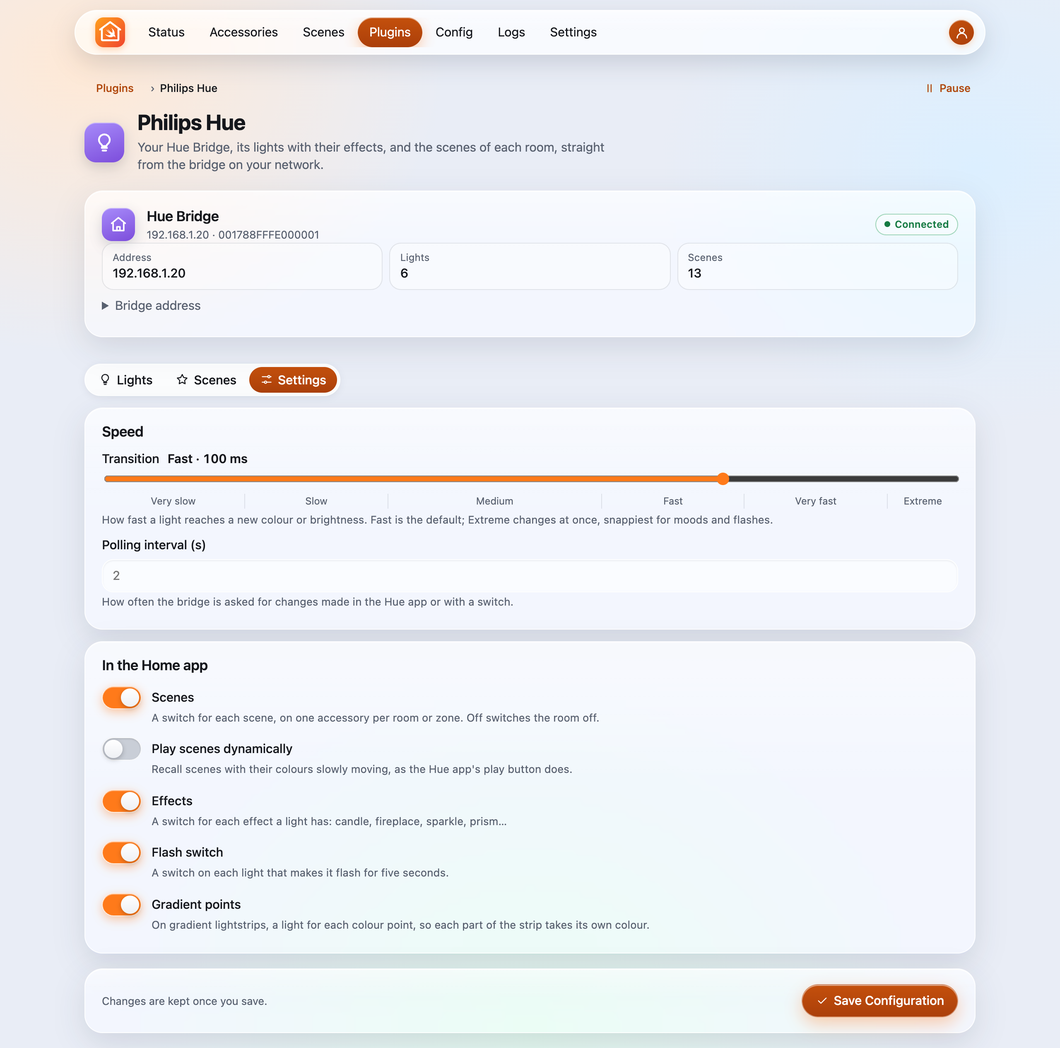
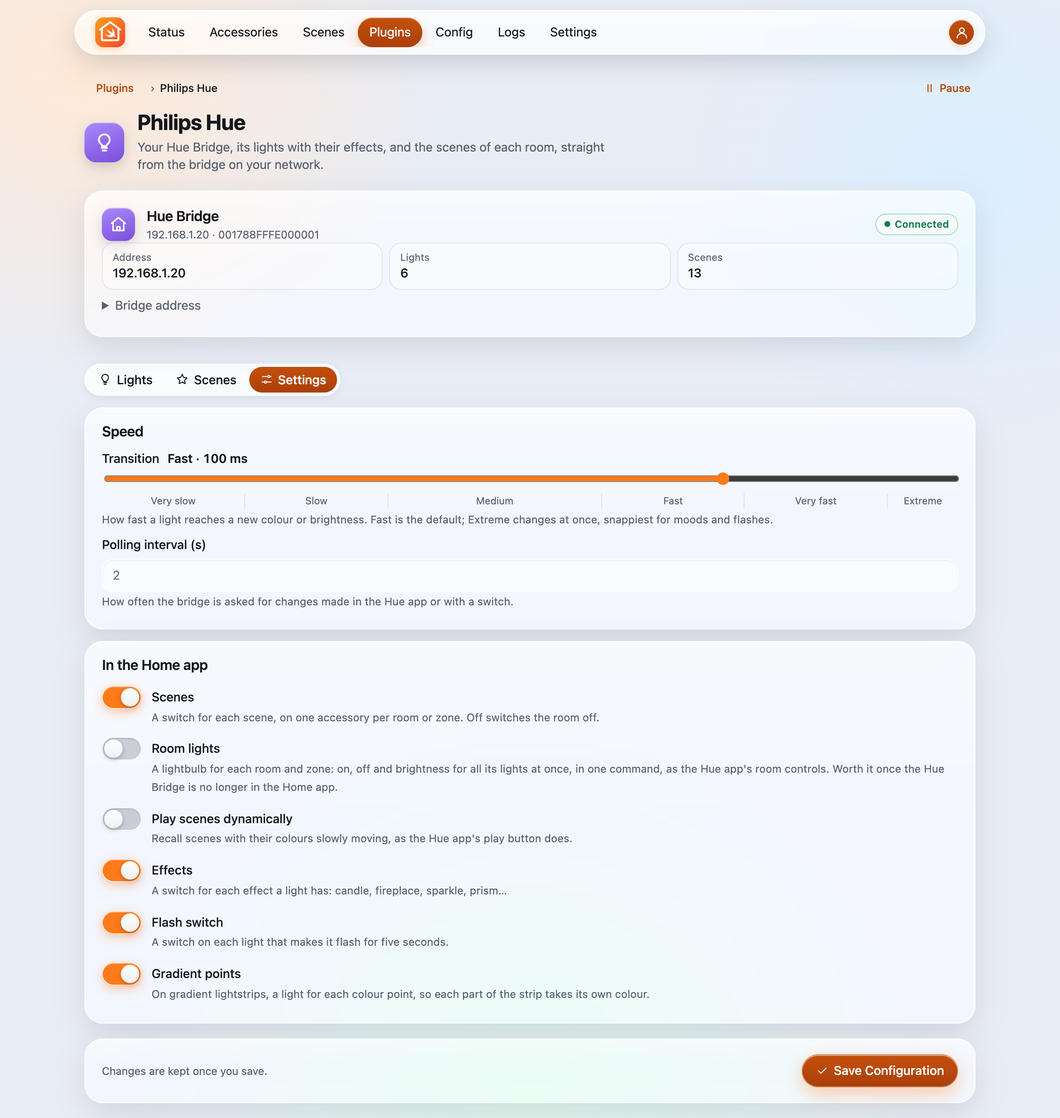
Philips Hue: room lights
With roomLights (off by default), each room and zone gets a lightbulb at
the head of its accessory, driving its grouped_light as the Hue app's room
controls do: on, off and brightness reach all its lights in one command,
with the transition, where the Home app's room controls send one per light.
It shows the on and brightness the bridge reports for the room, left alone
just after a command; colour stays with the scenes, since the bridge does
not report a room's. A zone without scenes gets an accessory for it alone;
the accessory keeps its id, so rooms and automations stay.

The page's settings have the switch, in four languages. The README says how
room lights work, and what happens with a bridge already in the Home app
(the lights show twice: leave them out, or move to Homeswift's).

diff --git a/Plugins/PhilipsHue/Sources/PhilipsHuePlugin.swift b/Plugins/PhilipsHue/Sources/PhilipsHuePlugin.swift
@@ -25,6 +25,8 @@ public actor PhilipsHuePlugin: HomeswiftPlugin {
         /// Seconds between polls; 1 at least, 2 by default.
         public var pollingInterval: Int?
         public var scenes: Bool?
+        /// A lightbulb per room and zone, its lights' on and brightness as one command; off by default.
+        public var roomLights: Bool?
         public var excludeScenes: [String]?
         public var dynamicScenes: Bool?
         public var effects: Bool?
@@ -102,9 +104,12 @@ public actor PhilipsHuePlugin: HomeswiftPlugin {
         let shape: String
     }
 
+    /// A room's or zone's accessory: a switch per scene and, with `roomLights`, a lightbulb for its lights together.
     struct SceneServices {
         let accessory: Accessory
         var switches: [String: Service]
+        let room: Service?
+        let roomWriter: LightChangeBatcher?
         let shape: String
     }
 
@@ -299,13 +304,13 @@ public actor PhilipsHuePlugin: HomeswiftPlugin {
             keep.insert(Self.accessoryID(lightID: light.id))
             await show(light)
         }
-        if configuration.scenes ?? true {
-            for group in snapshot.groups {
-                let scenes = visibleScenes(of: group)
-                guard !scenes.isEmpty else { continue }
-                keep.insert(Self.sceneAccessoryID(groupID: group.id))
-                showScenes(group, scenes)
-            }
+        // A room or zone has an accessory for its scenes, its lights together (`roomLights`), or both.
+        for group in snapshot.groups {
+            let scenes = configuration.scenes ?? true ? visibleScenes(of: group) : []
+            let roomLight = configuration.roomLights == true && group.groupedLightID != nil
+            guard !scenes.isEmpty || roomLight else { continue }
+            keep.insert(Self.sceneAccessoryID(groupID: group.id))
+            await showRoom(group, scenes, roomLight: roomLight)
         }
         lights = lights.filter { keep.contains(Self.accessoryID(lightID: $0.key)) }
         sceneAccessories = sceneAccessories.filter { keep.contains(Self.sceneAccessoryID(groupID: $0.key)) }
@@ -504,10 +509,11 @@ public actor PhilipsHuePlugin: HomeswiftPlugin {
 
     // MARK: Scenes
 
-    private func showScenes(_ group: HueGroup, _ scenes: [HueScene]) {
-        let shape = scenes.map { "\($0.id)=\($0.name)" }.joined(separator: "|")
+    private func showRoom(_ group: HueGroup, _ scenes: [HueScene], roomLight: Bool) async {
+        let shape = (roomLight ? "room|" : "") + scenes.map { "\($0.id)=\($0.name)" }.joined(separator: "|")
         if let services = sceneAccessories[group.id], services.shape == shape {
             for scene in scenes { services.switches[scene.id]?.characteristic(.on).value = .bool(scene.active) }
+            if let room = services.room, let writer = services.roomWriter { await Self.showRoomValues(group, on: room, writer: writer) }
             return
         }
         guard let client else { return }
@@ -515,8 +521,25 @@ public actor PhilipsHuePlugin: HomeswiftPlugin {
         let transition = transitionMs
         var switches: [String: Service] = [:]
         var services: [Service] = []
+        // The room's lights as one lightbulb, the grouped_light the Hue app's room controls write: one command for all.
+        var room: Service?
+        var roomWriter: LightChangeBatcher?
+        if roomLight, let groupedLight = group.groupedLightID {
+            let bulb = Service(.lightbulb, name: group.name, subtype: "room", optional: [.brightness], isPrimary: true)
+            let command = HueLightCommand(lightID: groupedLight, gamut: .c, transitionMs: transition, currentColour: { (0, 0) })
+            let writer = LightChangeBatcher { changes in try await client.put("grouped_light", id: groupedLight, command.body(for: changes)) }
+            bulb.characteristic(.on).onWrite { value in
+                do { try await writer.set(.on(value.boolValue ?? false)) } catch { throw HAPStatusError(.serviceCommunicationFailure) }
+            }
+            bulb[.brightness]?.onWrite { value in
+                do { try await writer.set(.brightness(max(1, value.doubleValue ?? 100))) } catch { throw HAPStatusError(.serviceCommunicationFailure) }
+            }
+            await Self.showRoomValues(group, on: bulb, writer: writer)
+            services.append(bulb)
+            (room, roomWriter) = (bulb, writer)
+        }
         for (index, scene) in scenes.enumerated() {
-            let service = Self.switchService(scene.name, subtype: "scene:\(scene.id)", isPrimary: index == 0)
+            let service = Self.switchService(scene.name, subtype: "scene:\(scene.id)", isPrimary: room == nil && index == 0)
             let groupedLight = group.groupedLightID
             service.characteristic(.on).onWrite { value in
                 do {
@@ -535,16 +558,25 @@ public actor PhilipsHuePlugin: HomeswiftPlugin {
             switches[scene.id] = service
             services.append(service)
         }
-        let name = "\(group.name) Scenes"
+        let zone = group.kind == "zone"
         let accessory = Accessory(
-            id: Self.sceneAccessoryID(groupID: group.id), name: name, manufacturer: "Signify", model: group.kind == "zone" ? "Zone scenes" : "Room scenes",
-            serialNumber: group.id, category: .switch, services: services)
+            id: Self.sceneAccessoryID(groupID: group.id), name: room == nil ? "\(group.name) Scenes" : group.name, manufacturer: "Signify",
+            model: room == nil ? (zone ? "Zone scenes" : "Room scenes") : (zone ? "Zone" : "Room"),
+            serialNumber: group.id, category: room == nil ? .switch : .lightbulb, services: services)
         do {
             try context.add(accessory)
-            sceneAccessories[group.id] = SceneServices(accessory: accessory, switches: switches, shape: shape)
+            sceneAccessories[group.id] = SceneServices(accessory: accessory, switches: switches, room: room, roomWriter: roomWriter, shape: shape)
         } catch {
-            logger.error("Could not add the scenes of \(group.name): \(error)")
+            logger.error("Could not add the accessory of \(group.name): \(error)")
         }
+    }
+
+    /// The room's on and brightness as the bridge sums them up; left alone just after a command, as a light's are.
+    static func showRoomValues(_ group: HueGroup, on bulb: Service, writer: LightChangeBatcher) async {
+        if let sent = await writer.lastSent, ContinuousClock.now - sent < settleTime { return }
+        bulb.characteristic(.on).value = .bool(group.on)
+        // A room switched off may say 0: the brightness it comes back on at stays.
+        if let brightness = group.brightness, brightness >= 1 { bulb[.brightness]?.value = .int(Int(brightness.rounded())) }
     }
 
     static func recallBody(_ scene: HueScene, dynamic: Bool, transitionMs: Int) -> JSONValue {

diff --git a/Plugins/PhilipsHue/Sources/WebFiles.swift b/Plugins/PhilipsHue/Sources/WebFiles.swift
@@ -266,6 +266,7 @@ h2 { margin: 0 0 10px; }
 
   const toggles = [
     ["scenes", true, t("Scenes"), t("A switch for each scene, on one accessory per room or zone. Off switches the room off.")],
+    ["roomLights", false, t("Room lights"), t("A lightbulb for each room and zone: on, off and brightness for all its lights at once, in one command, as the Hue app's room controls. Worth it once the Hue Bridge is no longer in the Home app.")],
     ["dynamicScenes", false, t("Play scenes dynamically"), t("Recall scenes with their colours slowly moving, as the Hue app's play button does.")],
     ["effects", true, t("Effects"), t("A switch for each effect a light has: candle, fireplace, sparkle, prism…")],
     ["flashSwitch", false, t("Flash switch"), t("A switch on each light that makes it flash for five seconds.")],
@@ -397,6 +398,8 @@ HomeswiftI18n.add({
     "Play scenes dynamically": "Scènes dynamiques",
     "Recall scenes with their colours slowly moving, as the Hue app's play button does.": "Rappelle les scènes avec leurs couleurs qui évoluent lentement, comme le bouton lecture de l'app Hue.",
     "A switch for each effect a light has: candle, fireplace, sparkle, prism…": "Un interrupteur pour chaque effet d'une lampe : bougie, cheminée, scintillement, prisme…",
+    "Room lights": "Lampes de la pièce",
+    "A lightbulb for each room and zone: on, off and brightness for all its lights at once, in one command, as the Hue app's room controls. Worth it once the Hue Bridge is no longer in the Home app.": "Une ampoule pour chaque pièce et zone : allumer, éteindre et régler la luminosité de toutes ses lampes à la fois, en une commande, comme les commandes de pièce de l'app Hue. Utile une fois le pont Hue retiré de l'app Maison.",
     "Flash switch": "Interrupteur Clignoter",
     "A switch on each light that makes it flash for five seconds.": "Un interrupteur sur chaque lampe qui la fait clignoter cinq secondes.",
     "Gradient points": "Points du dégradé",
@@ -461,6 +464,8 @@ HomeswiftI18n.add({
     "Play scenes dynamically": "Escenas dinámicas",
     "Recall scenes with their colours slowly moving, as the Hue app's play button does.": "Activa las escenas con sus colores moviéndose despacio, como el botón de reproducir de la app Hue.",
     "A switch for each effect a light has: candle, fireplace, sparkle, prism…": "Un interruptor por cada efecto de una luz: vela, chimenea, destello, prisma…",
+    "Room lights": "Luces de la habitación",
+    "A lightbulb for each room and zone: on, off and brightness for all its lights at once, in one command, as the Hue app's room controls. Worth it once the Hue Bridge is no longer in the Home app.": "Una bombilla para cada habitación y zona: encender, apagar y ajustar el brillo de todas sus luces a la vez, en un solo comando, como los controles de habitación de la app Hue. Útil cuando el puente Hue ya no está en la app Casa.",
     "Flash switch": "Interruptor Parpadear",
     "A switch on each light that makes it flash for five seconds.": "Un interruptor en cada luz que la hace parpadear cinco segundos.",
     "Gradient points": "Puntos del degradado",
@@ -525,6 +530,8 @@ HomeswiftI18n.add({
     "Play scenes dynamically": "Cenas dinâmicas",
     "Recall scenes with their colours slowly moving, as the Hue app's play button does.": "Ativa as cenas com as cores a mudar devagar, como o botão de reprodução da app Hue.",
     "A switch for each effect a light has: candle, fireplace, sparkle, prism…": "Um interruptor por cada efeito de uma luz: vela, lareira, cintilar, prisma…",
+    "Room lights": "Luzes da divisão",
+    "A lightbulb for each room and zone: on, off and brightness for all its lights at once, in one command, as the Hue app's room controls. Worth it once the Hue Bridge is no longer in the Home app.": "Uma lâmpada para cada divisão e zona: ligar, desligar e ajustar o brilho de todas as suas luzes de uma vez, num só comando, como os controlos de divisão da app Hue. Útil quando a ponte Hue já não está na app Casa.",
     "Flash switch": "Interruptor Piscar",
     "A switch on each light that makes it flash for five seconds.": "Um interruptor em cada luz que a faz piscar cinco segundos.",
     "Gradient points": "Pontos do gradiente",

diff --git a/Plugins/PhilipsHue/Tests/PhilipsHueTests.swift b/Plugins/PhilipsHue/Tests/PhilipsHueTests.swift
@@ -90,7 +90,10 @@ final class FakeBridge: HTTPSending, @unchecked Sendable {
         ["id": "zc-2", "type": "zigbee_connectivity", "owner": ["rid": "dev-2", "rtype": "device"], "status": "connected"],
         ["id": "room-1", "type": "room", "metadata": ["name": "Living room"], "children": [["rid": "dev-1", "rtype": "device"]],
          "services": [["rid": "group-1", "rtype": "grouped_light"]]],
-        ["id": "group-1", "type": "grouped_light", "on": ["on": true]],
+        ["id": "group-1", "type": "grouped_light", "on": ["on": true], "dimming": ["brightness": 60.0]],
+        ["id": "zone-1", "type": "zone", "metadata": ["name": "Upstairs"], "children": [["rid": "light-2", "rtype": "light"]],
+         "services": [["rid": "group-2", "rtype": "grouped_light"]]],
+        ["id": "group-2", "type": "grouped_light", "on": ["on": false], "dimming": ["brightness": 0.0]],
         ["id": "scene-1", "type": "scene", "metadata": ["name": "Savanna sunset"], "group": ["rid": "room-1", "rtype": "room"],
          "palette": ["color": [["color": ["xy": ["x": 0.6, "y": 0.35]], "dimming": ["brightness": 80]]]], "status": ["active": "static"]],
         ["id": "scene-2", "type": "scene", "metadata": ["name": "Concentrate"], "group": ["rid": "room-1", "rtype": "room"],
@@ -223,6 +226,39 @@ struct PhilipsHueTests {
         #expect(scenes.service(.switch, subtype: "scene:scene-1")?[.on]?.value == .bool(true))
         #expect(scenes.service(.switch, subtype: "scene:scene-2")?[.on]?.value == .bool(false))
         #expect(scenes.service(.switch, subtype: "scene:smart-1") != nil)
+        // Without roomLights, no room lightbulb, and a zone without scenes has no accessory.
+        #expect(scenes.service(.lightbulb) == nil)
+        #expect(!host.mainBridge.server.accessories.contains { $0.id == PhilipsHuePlugin.sceneAccessoryID(groupID: "zone-1") })
+        await host.stop()
+    }
+
+    /// With roomLights, a room's accessory leads with a lightbulb for its lights together: on and brightness go in one
+    /// command to its grouped_light, as the Hue app's room controls; a zone without scenes gets an accessory for it.
+    @Test func roomLightsDriveARoomAtOnce() async throws {
+        let host = try await environment.start(settings: ["host": "192.0.2.10", "roomLights": true])
+        let room = try await accessory(host, scenesID)
+        #expect(room.information.characteristic(.name).value == .string("Living room"))
+        let bulb = try #require(room.service(.lightbulb, subtype: "room"))
+        #expect(bulb.isPrimary)
+        #expect(room.service(.switch, subtype: "scene:scene-1")?.isPrimary == false)
+        #expect(bulb[.on]?.value == .bool(true))
+        #expect(bulb[.brightness]?.value == .int(60))
+        let zone = try await accessory(host, PhilipsHuePlugin.sceneAccessoryID(groupID: "zone-1"))
+        #expect(zone.services.filter { $0.type == .switch }.isEmpty)
+        #expect(zone.service(.lightbulb, subtype: "room")?[.on]?.value == .bool(false))
+
+        async let on: Void = bulb[.on]!.write(.bool(true))
+        async let level: Void = bulb[.brightness]!.write(.int(40))
+        _ = try await (on, level)
+        #expect(environment.bridge.puts.filter { $0.path.hasSuffix("/grouped_light/group-1") }
+            == [.init(method: "PUT", path: "/clip/v2/resource/grouped_light/group-1", body: ["on": ["on": true], "dimming": ["brightness": 40], "dynamics": ["duration": 100]])])
+        try await bulb[.on]!.write(.bool(false))
+        #expect(environment.bridge.puts.last == .init(method: "PUT", path: "/clip/v2/resource/grouped_light/group-1", body: ["on": ["on": false]]))
+
+        // The bridge's own changes reach it, once a command has settled.
+        environment.bridge.change("group-2") { $0["on"] = ["on": true]; $0["dimming"] = ["brightness": 25.0] }
+        await environment.plugin?.refresh()
+        #expect(zone.service(.lightbulb, subtype: "room")?[.brightness]?.value == .int(25))
         await host.stop()
     }
 

diff --git a/Plugins/PhilipsHue/Web/i18n.js b/Plugins/PhilipsHue/Web/i18n.js
@@ -36,6 +36,8 @@ HomeswiftI18n.add({
     "Play scenes dynamically": "Scènes dynamiques",
     "Recall scenes with their colours slowly moving, as the Hue app's play button does.": "Rappelle les scènes avec leurs couleurs qui évoluent lentement, comme le bouton lecture de l'app Hue.",
     "A switch for each effect a light has: candle, fireplace, sparkle, prism…": "Un interrupteur pour chaque effet d'une lampe : bougie, cheminée, scintillement, prisme…",
+    "Room lights": "Lampes de la pièce",
+    "A lightbulb for each room and zone: on, off and brightness for all its lights at once, in one command, as the Hue app's room controls. Worth it once the Hue Bridge is no longer in the Home app.": "Une ampoule pour chaque pièce et zone : allumer, éteindre et régler la luminosité de toutes ses lampes à la fois, en une commande, comme les commandes de pièce de l'app Hue. Utile une fois le pont Hue retiré de l'app Maison.",
     "Flash switch": "Interrupteur Clignoter",
     "A switch on each light that makes it flash for five seconds.": "Un interrupteur sur chaque lampe qui la fait clignoter cinq secondes.",
     "Gradient points": "Points du dégradé",
@@ -100,6 +102,8 @@ HomeswiftI18n.add({
     "Play scenes dynamically": "Escenas dinámicas",
     "Recall scenes with their colours slowly moving, as the Hue app's play button does.": "Activa las escenas con sus colores moviéndose despacio, como el botón de reproducir de la app Hue.",
     "A switch for each effect a light has: candle, fireplace, sparkle, prism…": "Un interruptor por cada efecto de una luz: vela, chimenea, destello, prisma…",
+    "Room lights": "Luces de la habitación",
+    "A lightbulb for each room and zone: on, off and brightness for all its lights at once, in one command, as the Hue app's room controls. Worth it once the Hue Bridge is no longer in the Home app.": "Una bombilla para cada habitación y zona: encender, apagar y ajustar el brillo de todas sus luces a la vez, en un solo comando, como los controles de habitación de la app Hue. Útil cuando el puente Hue ya no está en la app Casa.",
     "Flash switch": "Interruptor Parpadear",
     "A switch on each light that makes it flash for five seconds.": "Un interruptor en cada luz que la hace parpadear cinco segundos.",
     "Gradient points": "Puntos del degradado",
@@ -164,6 +168,8 @@ HomeswiftI18n.add({
     "Play scenes dynamically": "Cenas dinâmicas",
     "Recall scenes with their colours slowly moving, as the Hue app's play button does.": "Ativa as cenas com as cores a mudar devagar, como o botão de reprodução da app Hue.",
     "A switch for each effect a light has: candle, fireplace, sparkle, prism…": "Um interruptor por cada efeito de uma luz: vela, lareira, cintilar, prisma…",
+    "Room lights": "Luzes da divisão",
+    "A lightbulb for each room and zone: on, off and brightness for all its lights at once, in one command, as the Hue app's room controls. Worth it once the Hue Bridge is no longer in the Home app.": "Uma lâmpada para cada divisão e zona: ligar, desligar e ajustar o brilho de todas as suas luzes de uma vez, num só comando, como os controlos de divisão da app Hue. Útil quando a ponte Hue já não está na app Casa.",
     "Flash switch": "Interruptor Piscar",
     "A switch on each light that makes it flash for five seconds.": "Um interruptor em cada luz que a faz piscar cinco segundos.",
     "Gradient points": "Pontos do gradiente",

diff --git a/Plugins/PhilipsHue/Sources/HueModel.swift b/Plugins/PhilipsHue/Sources/HueModel.swift
@@ -45,6 +45,8 @@ struct HueGroup: Sendable, Equatable {
     var name: String
     var groupedLightID: String?
     var on: Bool = false
+    /// Its lights' brightness as the bridge sums it up (0 to 100), when it says.
+    var brightness: Double?
 }
 
 /// A scene of a room or zone; a smart scene (one that follows the time of day) is one too, recalled with `activate`.
@@ -77,13 +79,13 @@ struct HueSnapshot: Sendable, Equatable {
 
     init(resources: [JSONValue]) {
         var devices: [String: JSONValue] = [:]
-        var groupedLights: [String: Bool] = [:]
+        var groupedLights: [String: (on: Bool, brightness: Double?)] = [:]
         var unreachable: Set<String> = []
         for resource in resources {
             guard let id = resource["id"]?.stringValue else { continue }
             switch resource["type"]?.stringValue {
             case "device": devices[id] = resource
-            case "grouped_light": groupedLights[id] = resource["on"]?["on"]?.boolValue ?? false
+            case "grouped_light": groupedLights[id] = (resource["on"]?["on"]?.boolValue ?? false, resource["dimming"]?["brightness"]?.doubleValue)
             case "zigbee_connectivity":
                 // A light the bridge cannot reach reports `connectivity_issue` on its device's connectivity.
                 if let status = resource["status"]?.stringValue, status != "connected", let owner = resource["owner"]?["rid"]?.stringValue {
@@ -104,7 +106,8 @@ struct HueSnapshot: Sendable, Equatable {
                 let grouped = resource["services"]?.arrayValue?.first { $0["rtype"]?.stringValue == "grouped_light" }?["rid"]?.stringValue
                 groups.append(HueGroup(
                     id: id, kind: resource["type"]?.stringValue ?? "room", name: resource["metadata"]?["name"]?.stringValue ?? "Room",
-                    groupedLightID: grouped, on: grouped.flatMap { groupedLights[$0] } ?? false))
+                    groupedLightID: grouped, on: grouped.flatMap { groupedLights[$0]?.on } ?? false,
+                    brightness: grouped.flatMap { groupedLights[$0]?.brightness }))
             case "scene":
                 guard let group = resource["group"]?["rid"]?.stringValue else { continue }
                 scenes.append(Self.scene(resource, id: id, group: group))

diff --git a/Plugins/PhilipsHue/Sources/ConfigurationSchema.swift b/Plugins/PhilipsHue/Sources/ConfigurationSchema.swift
@@ -62,6 +62,12 @@ extension PhilipsHuePlugin {
         "default": true,
         "description": "A switch for each effect a light has (candle, fire, sparkle, prism…)."
       },
+      "roomLights": {
+        "title": "Room Lights",
+        "type": "boolean",
+        "default": false,
+        "description": "A lightbulb on each room's and zone's accessory: on, off and brightness for all its lights at once, as one command, like the Hue app's room controls."
+      },
       "flashSwitch": {
         "title": "Flash Switch",
         "type": "boolean",
@@ -90,7 +96,7 @@ extension PhilipsHuePlugin {
       "type": "fieldset",
       "title": "Scenes and Effects",
       "expandable": true,
-      "items": ["scenes", "dynamicScenes", "excludeScenes", "effects", "flashSwitch", "gradientPoints"]
+      "items": ["scenes", "roomLights", "dynamicScenes", "excludeScenes", "effects", "flashSwitch", "gradientPoints"]
     },
     {
       "type": "fieldset",

diff --git a/Plugins/PhilipsHue/Web/app.js b/Plugins/PhilipsHue/Web/app.js
@@ -232,6 +232,7 @@
 
   const toggles = [
     ["scenes", true, t("Scenes"), t("A switch for each scene, on one accessory per room or zone. Off switches the room off.")],
+    ["roomLights", false, t("Room lights"), t("A lightbulb for each room and zone: on, off and brightness for all its lights at once, in one command, as the Hue app's room controls. Worth it once the Hue Bridge is no longer in the Home app.")],
     ["dynamicScenes", false, t("Play scenes dynamically"), t("Recall scenes with their colours slowly moving, as the Hue app's play button does.")],
     ["effects", true, t("Effects"), t("A switch for each effect a light has: candle, fireplace, sparkle, prism…")],
     ["flashSwitch", false, t("Flash switch"), t("A switch on each light that makes it flash for five seconds.")],

diff --git a/Plugins/PhilipsHue/README.md b/Plugins/PhilipsHue/README.md
@@ -36,6 +36,7 @@ config.json, with the bridge's certificate pinned on first use. One block per br
 | `dynamicScenes` | `false` | Recall scenes with their colours moving, as the Hue app's play button |
 | `excludeScenes` | `[]` | Scene names, `Room/Scene` or ids to leave out |
 | `effects` | `true` | A switch for each effect a light has |
+| `roomLights` | `false` | A lightbulb on each room's and zone's accessory: on, off and brightness for all its lights in one command, as the Hue app's room controls |
 | `flashSwitch` | `false` | A switch on each light that makes it flash for five seconds (Hue's signaling) |
 | `gradientPoints` | `false` | On gradient lightstrips and lamps, a lightbulb per colour point (up to five), so each part takes its own colour |
 | `excludeLights` | `[]` | Light names or ids to leave out of HomeKit |
@@ -46,6 +47,24 @@ Each room and zone with scenes is an accessory, "<Room> Scenes", with a switch p
 transition), the switch shows on while the bridge says the scene is active, and **Off** switches the room's lights off.
 Smart scenes (natural light) are switches too: On activates, Off deactivates. Scenes made in the Hue app show up at
 the next poll.
+
+### Room lights
+
+With `roomLights`, each room and zone also gets a lightbulb, named after it, at the head of its accessory (a zone
+without scenes gets an accessory for it alone). It drives the room's `grouped_light`, as the Hue app's room controls
+do: on, off and brightness reach every light of the room in one command, with the transition, where the Home app's
+room controls send one command per light and the lights change one after the other. It shows the on and brightness
+the bridge reports for the room. Colour stays with the scenes: the bridge does not report a room's colour. The
+plugin reads rooms and zones and never changes them; they are made in the Hue app.
+
+### A Hue Bridge already in the Home app
+
+Pairing the plugin with the bridge does not touch the bridge's own HomeKit pairing (a bridge keeps many application
+keys), but the lights then show twice in the Home app: once from the bridge, once from Homeswift, both working.
+Either keep the bridge in the Home app and leave the lights out of Homeswift (`excludeLights`, or a light's ⋯ menu on
+the page), using it for scenes, room lights and what HomeKit's Hue lacks; or remove the bridge from the Home app and
+use Homeswift's accessories, with effects, Flash, gradient points and room lights, putting rooms and automations on
+them again. The Hue app keeps working either way.
 
 ### Effects, Flash and gradients
 

diff --git a/CHANGELOG.md b/CHANGELOG.md
@@ -13,6 +13,8 @@ All notable changes to this project are documented here. The format follows
   zone's scenes as switches (smart scenes too), optional Flash switches and gradient points. A light's changes go in
   one command with a chosen transition (`transitionMs`, 0 for instant flashes). Pairing with the link button from
   the plugin's page, which shows the lights as the Accessories page's widgets and the scenes as palette tiles.
+- Philips Hue: **room lights** (`roomLights`, off by default), a lightbulb per room and zone driving its
+  `grouped_light`: on, off and brightness for all its lights in one command, as the Hue app's room controls.
 - **IKEA DIRIGERA** plugin (`Dirigera`, homebridge-dirigera's block): lights, outlets, PARASOLL door and window
   sensors with their battery, and scenes (On triggers, Off within 30 seconds undoes), followed through the hub's
   websocket. Pairing with the hub's action button (OAuth with PKCE) from the plugin's page.
